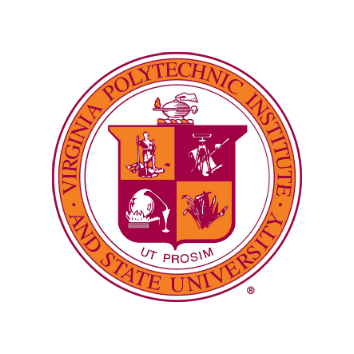
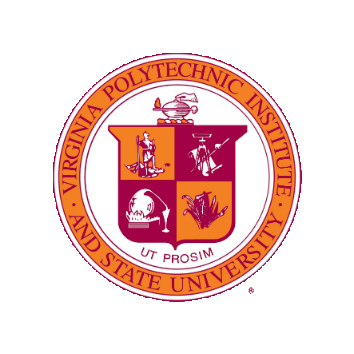
fix transparency issue

diff --git a/scripts/image_maniplation/size insitutions_images_for_circle.py b/scripts/image_maniplation/size insitutions_images_for_circle.py
@@ -20,7 +20,7 @@ def alphaToWhite(img):
     for i,pixel in enumerate(pixeldata):
         if len(pixel) == 4:
             if pixel[3] != 255:
-               pixel[3] = 255
+                pixeldata[i] = (255,255,255,255)
 
     img.putdata(pixeldata)
     return img
